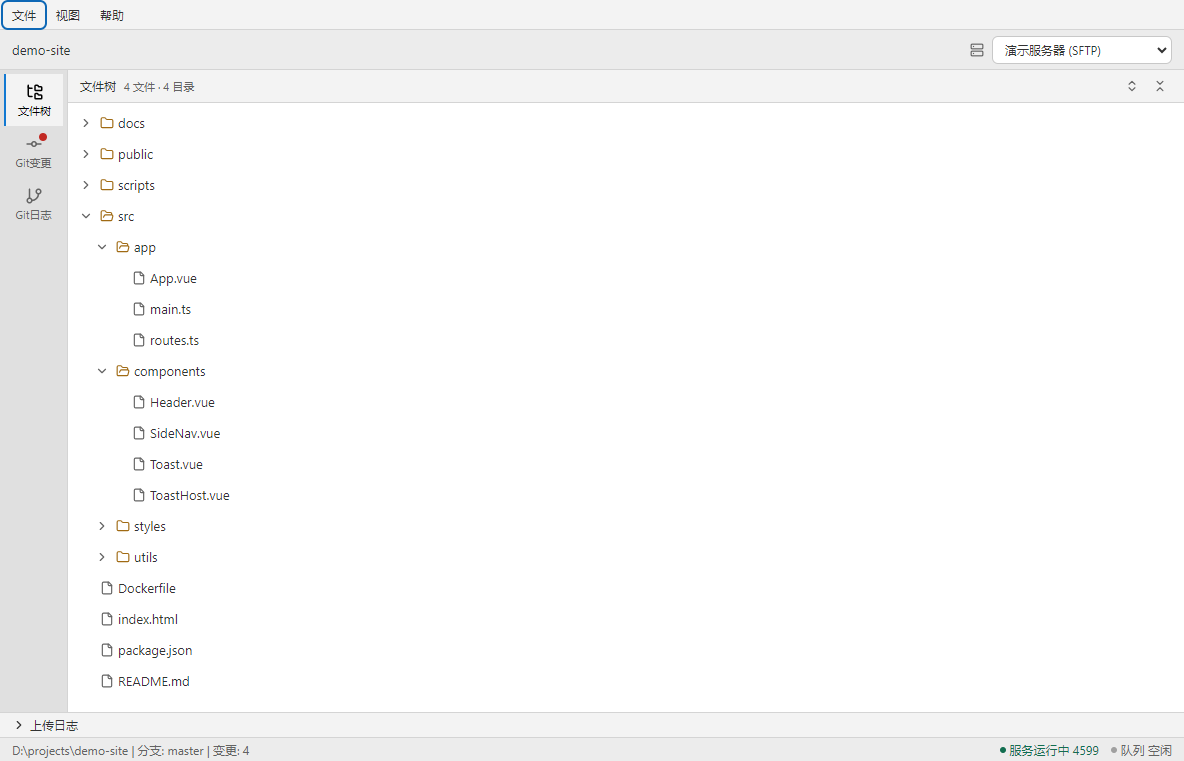
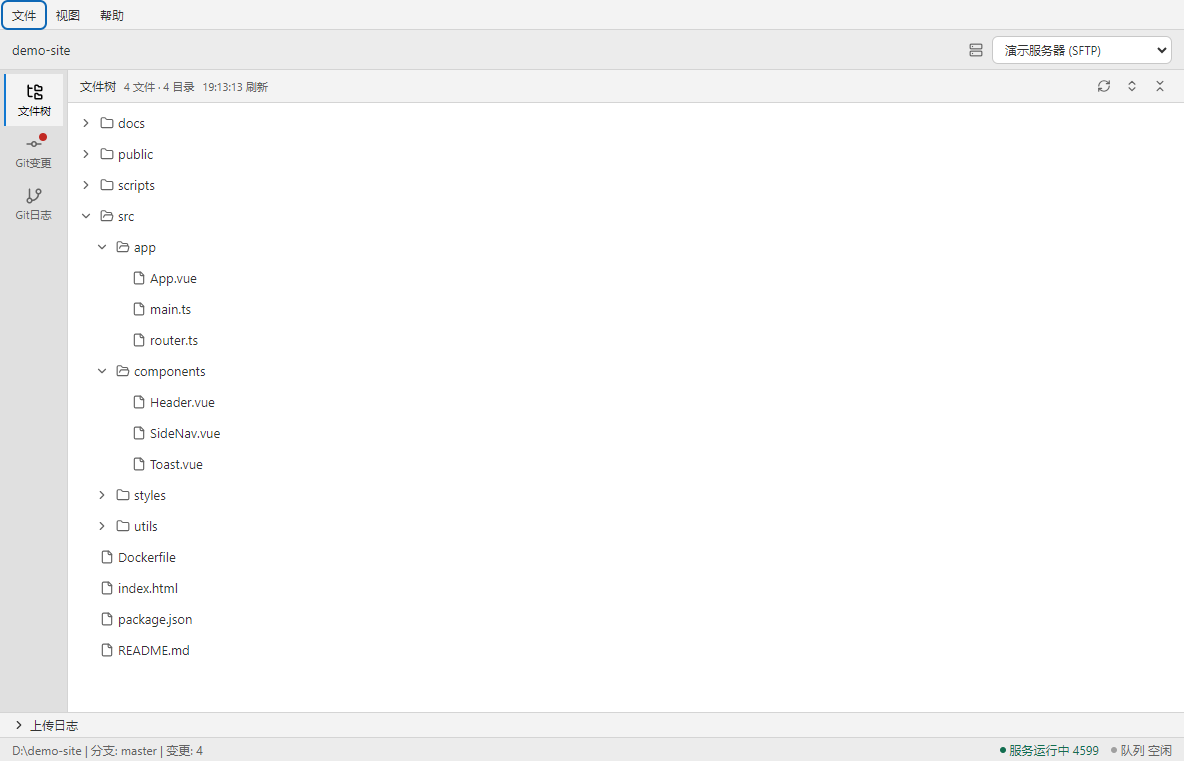
docs: 同步 1.2.5 README 与三视图截图

diff --git a/README.md b/README.md
@@ -7,14 +7,15 @@
 
 ## 功能特性
 
-- **三视图切换**：文件树 / Git 未提交变更 / Git 提交历史
+- **三视图切换**：文件树 / Git 未提交变更 / Git 提交历史；视图切走再回来，已展开的目录与提交保持展开
 - **多目标上传**：支持 SFTP/FTP/FTPS/FTPES/本地目录，每个目标独立配置连接与目录映射；目标可复制、手动排序
 - **上传链路**：选中文件 → 确认弹窗（显示目标地址与每个文件的远端路径）→ 进度条（可取消）→ 底部日志；跳过项与失败原因可见
-- **Git 集成**：查看变更、提交历史，一键上传提交文件；多仓库项目按仓库分组展示变更
+- **Git 集成**：查看变更、提交历史，一键上传提交文件；多仓库项目按仓库分组展示变更，文件差异按所属仓库读取（项目根不是仓库也能看）；提交历史读项目根仓库，根不是仓库时明确提示
 - **键盘操作**：选中后 `Ctrl+X` 快速上传（当前目标），或 `Ctrl+Shift+X` 唤起服务器菜单（数字 `1-9/0/A-Z` 选服务器），`Enter` 确认 / `Esc` 取消
 - **菜单栏**：VS Code 风格菜单（文件 / 视图 / 设置 / 帮助），带快捷键提示与当前项标记
 - **主题**：自动跟随系统 / 深色 / 亮色
 - **无障碍**：键盘可达、焦点环、ARIA 标签
+- **文件树**：`F5` 保留展开态；切回应用窗口自动刷新一次
 - **多项目多窗口**：一个托盘、一份配置、一条上传队列；每个项目独立窗口
 - **CLI / MCP**：内置本地服务端，命令行与 AI Agent 可直接调用（9 个工具）
 
@@ -62,6 +63,7 @@
 | `Ctrl+3` | Git 日志视图 |
 | `Ctrl+,` | 上传目标管理 |
 | `Ctrl+W` | 关闭项目 |
+| `Alt+Enter` | 只上传当前聚焦的那一行 |
 | `Ctrl+X` | 快速上传选中项 |
 | `Ctrl+Shift+X` | 选择服务器上传（菜单内数字/字母选择）|
 | `Ctrl+Shift+=` / `Ctrl+Shift+-` | 全部展开 / 全部收起 |
